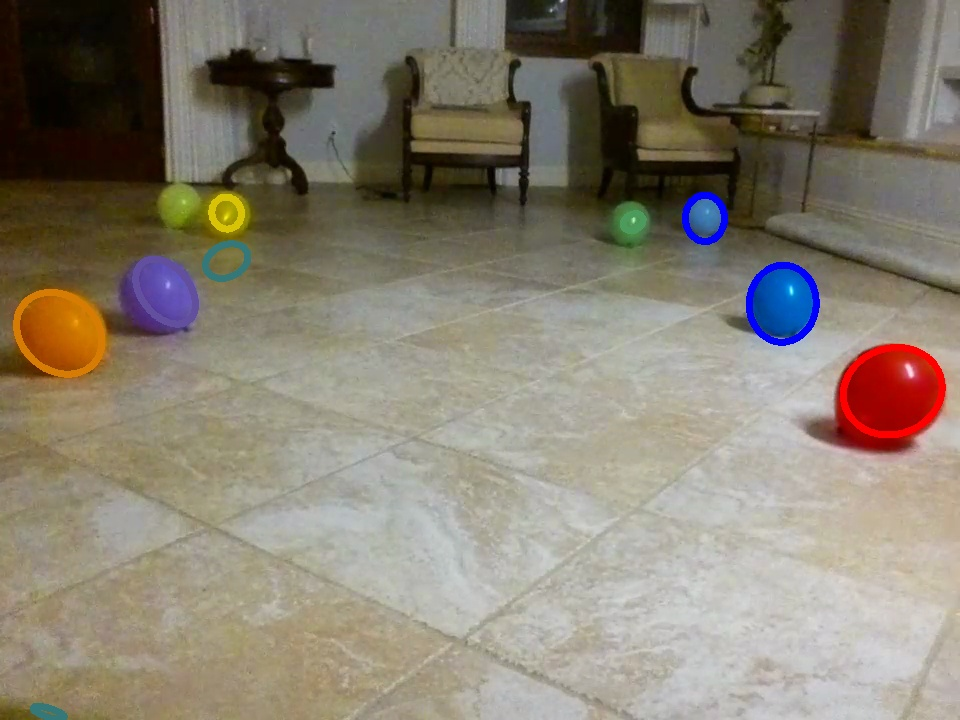
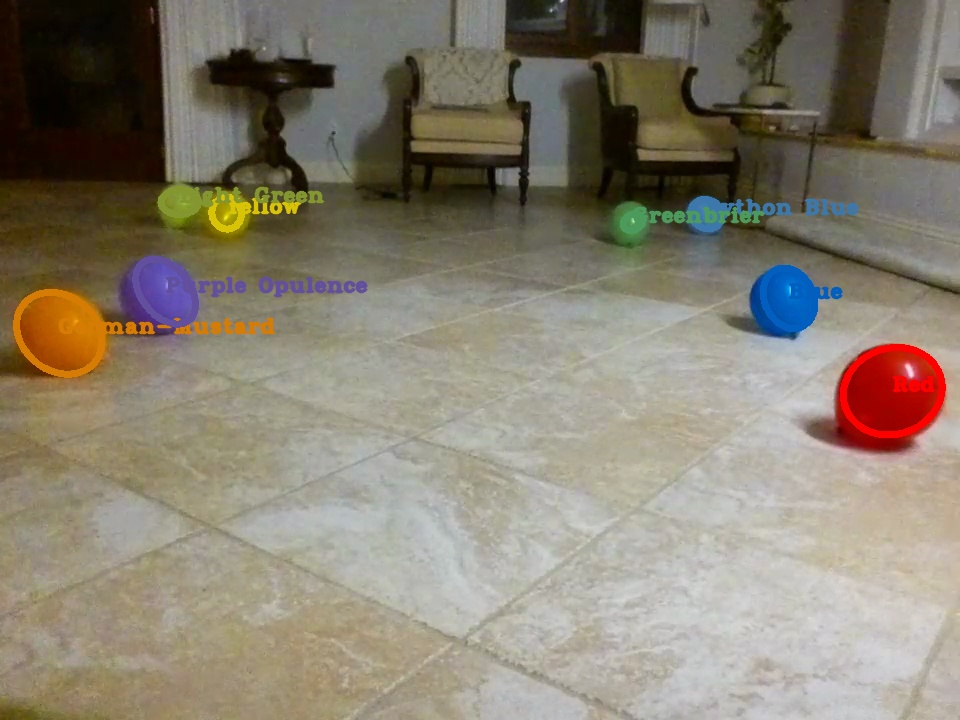
all 8 colors

diff --git a/aa_mission_main.py b/aa_mission_main.py
@@ -98,28 +98,18 @@ def colorAnalyzeImage(image, show_image=True):
     #red Color 
     lower_red = np.array([0,90*255//100,60*255//100]) #[0,100,100]
     upper_red = np.array([10,100*255//100,80*255//100]) #[7,255,255]
-    #evening green color 
-    lower_eg = np.array([50//2,42*255//100,46*255//100]) #57, 51, 68; 53, 44, 55; 49, 55, 54
-    upper_eg = np.array([60//2,60*255//100,72*255//100]) # 57, 50, 55; 57, 47, 57; 59, 56, 47;  55, 48, 56; not 47, 54, 51
-
-    #arcala Green 112, 47, 42
-    lower_green = np.array([98//2,32*255//100,38*255//100]) #120, 38, 47; 110, 36, 51
-    upper_green = np.array([122//2,52*255//100,52*255//100]) #100, 34, 50
 
     #blue color 
-    lower_blue = np.array([95,50,50])  # 95, 110, 110 #[90,60,0]
-    upper_blue = np.array([122,255,255]) #[121,255,255]
-    #purple color 
-    lower_purple = np.array([250//2,7*255//100,70*255//100])  #278
-    upper_purple = np.array([310//2,20*255//100,100*255//100]) #[121,255,255]
-
-    #light-green color 
-    lower_lg = np.array([157//2,6*255//100,81*255//100])  
-    upper_lg = np.array([205//2,20*255//100,99*255//100]) 
-
-    #dull-green color 
-    lower_dg = np.array([76//2,32*255//100,58*255//100])  #80, 38, 67; 86, 39, 67;  80, 34, 60
-    upper_dg = np.array([88//2,50*255//100,70*255//100])  #81, 38, 67; 77, 49, 60; 76, 46, 62; 79, 47, 63
+    lower_blue = np.array([201//2,89*255//100,65*255//100]) # 211, 99, 75
+    upper_blue = np.array([221//2,109*255//100,85*255//100]) 
+    
+    # Light Green color
+    lower_lgreen = np.array([61//2,58*255//100,49*255//100]) # 71, 68, 59
+    upper_lgreen = np.array([81//2,78*255//100,69*255//100])
+    
+    #python blue color 
+    lower_pb = np.array([198//2,55*255//100,57*255//100]) # 208, 65, 67
+    upper_pb = np.array([218//2,75*255//100,77*255//100]) 
 
     #bright-yellow color 
     lower_by = np.array([41//2,66*255//100,60*255//100])  #49, 79, 70; 50, 60, 82
@@ -143,23 +133,21 @@ def colorAnalyzeImage(image, show_image=True):
     lower_po = np.array([244//2,40*255//100,52*255//100]) # 254, 50, 62
     upper_po = np.array([264//2,60*255//100,72*255//100]) 
 
-    green = cv2.inRange(hsv, lower_green, upper_green)
+    #green = cv2.inRange(hsv, lower_green, upper_green)
     blue = cv2.inRange(hsv, lower_blue, upper_blue)
+    pb = cv2.inRange(hsv, lower_pb, upper_pb)
     red = cv2.inRange(hsv, lower_red, upper_red)
     red2 = cv2.inRange(hsv, lower_red2, upper_red2)
-    pur = cv2.inRange(hsv, lower_purple, upper_purple)
-    lg = cv2.inRange(hsv, lower_lg, upper_lg)
-    dg = cv2.inRange(hsv, lower_dg, upper_dg)
+    lgreen = cv2.inRange(hsv, lower_lgreen, upper_lgreen)
     by = cv2.inRange(hsv, lower_by, upper_by)
-    eg = cv2.inRange(hsv, lower_eg, upper_eg)
     gm = cv2.inRange(hsv, lower_gm, upper_gm)
     gb = cv2.inRange(hsv, lower_gb, upper_gb)
     po = cv2.inRange(hsv, lower_po, upper_po)
     red = red + red2
 
-    objs = [red, blue, green, lg, pur, dg, by, eg, gm, gb, po]
-    obj_color_strs = ['Red', 'Blue', 'Green', 'Light-Green', 'Light-Purple', 'Green Tea Mochi', 'Yellow', 'Evening-Green', 'German-Mustard', 'Greenbrier', 'Purple Opulence']
-    obj_cnt_colors = [(0, 0, 255), (255, 0, 0), (64, 108, 57), (0, 100, 0), (198, 171, 213), (142, 171, 105), (6, 195, 216), (121, 120, 53), (3, 123, 214), (93, 154, 77), (159, 80, 98)]
+    objs = [red, blue, pb, by, gm, gb, po, lgreen]
+    obj_color_strs = ['Red', 'Blue', 'Python Blue', 'Yellow', 'German-Mustard', 'Greenbrier', 'Purple Opulence', 'Light Green']
+    obj_cnt_colors = [(0, 0, 255), (192, 95, 2), (172, 120, 60), (6, 195, 216), (3, 123, 214), (93, 154, 77), (159, 80, 98), (48, 150, 131)]
     
     oi = 0
     for o in objs:
@@ -179,12 +167,13 @@ def colorAnalyzeImage(image, show_image=True):
                     #cv2.rectangle(img,(x,y),(x+w,y+h),(0,255,0),2)
                     #cv2.drawContours(img, [c], -1, obj_cnt_colors[oi], 5)
                     e = cv2.fitEllipse(c)
-                    (_, (h, w), _) = e 
+                    ((x, y), (h, w), _) = e 
                     ea = (3.1415926/4.0)*h*w
                     r = ea/a
                     if r>0.92 and r<1.5:#15: #1.08:
                         if show_image:
                             cv2.ellipse(img, e, obj_cnt_colors[oi], 5)
+                            cv2.putText(img, obj_color_strs[oi], (int(x), int(y)), cv2.FONT_HERSHEY_COMPLEX_SMALL, 1, obj_cnt_colors[oi], 2, cv2.LINE_AA)
                         print(obj_color_strs[oi], i+1," detected with area =", a, r)
                     else:
                         pass #print(obj_color_strs[oi], i+1," disqualified with area =", a, r)    
